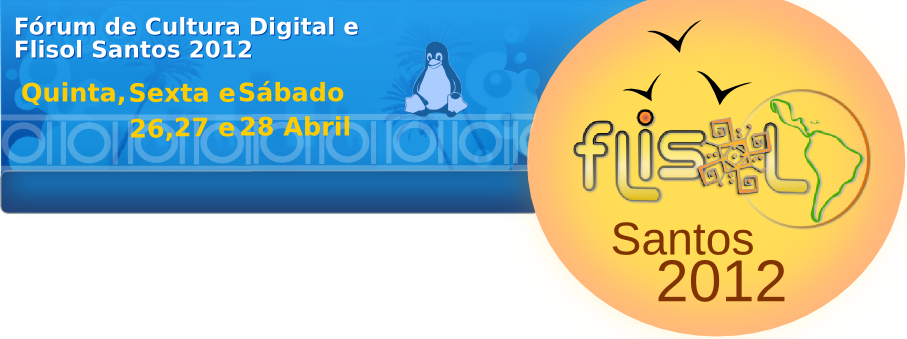
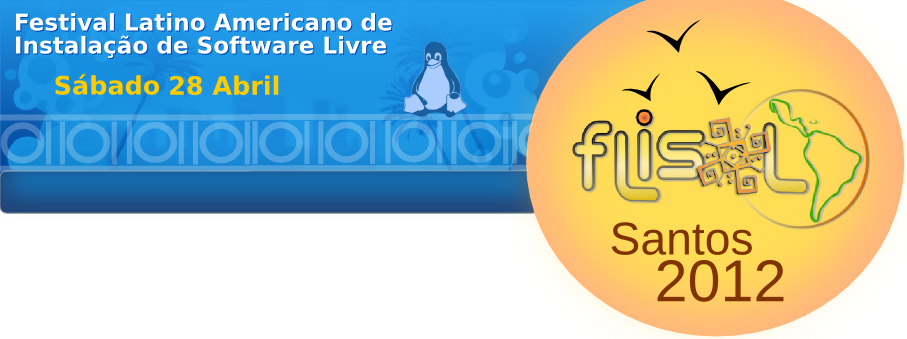
Atualização do site, páginas, inscrições, etc.

diff --git a/paginas/data_hora.php b/paginas/data_hora.php
@@ -1,11 +1,13 @@
 <h1>Quando?</h1>
 
 <p>
-    O Flisol Santos 2012 ainda não tem data marcada. Volte em breve para saber mais.
+    O Flisol Santos 2012 será realizado no dia 28/05, sábado, das 9h00 às 18h00.
 </p>
 
 <h1>Onde?</h1>
 
 <p>
-    Logo será definido o local do evento.
+    O evento será realizado no Fórum da Cidadania, que fica na Avenida Ana Costa, 340 - Santos - SP.
 </p>
+
+<iframe width="550" height="350" frameborder="0" scrolling="no" marginheight="0" marginwidth="0" src="http://maps.google.com.br/maps?f=q&amp;source=s_q&amp;hl=pt-BR&amp;geocode=&amp;q=Avenida+Ana+Costa,+340+%E2%80%93+Santos+%E2%80%93+SP&amp;aq=&amp;sll=-23.958882,-46.331899&amp;sspn=0.005314,0.010568&amp;ie=UTF8&amp;hq=&amp;hnear=Av.+Dona+Ana+Costa,+340+-+Campo+Grande,+Santos+-+S%C3%A3o+Paulo,+11060-002&amp;ll=-23.958882,-46.331926&amp;spn=0.01055,0.021136&amp;t=m&amp;z=14&amp;output=embed"></iframe><br /><small><a href="http://maps.google.com.br/maps?f=q&amp;source=embed&amp;hl=pt-BR&amp;geocode=&amp;q=Avenida+Ana+Costa,+340+%E2%80%93+Santos+%E2%80%93+SP&amp;aq=&amp;sll=-23.958882,-46.331899&amp;sspn=0.005314,0.010568&amp;ie=UTF8&amp;hq=&amp;hnear=Av.+Dona+Ana+Costa,+340+-+Campo+Grande,+Santos+-+S%C3%A3o+Paulo,+11060-002&amp;ll=-23.958882,-46.331926&amp;spn=0.01055,0.021136&amp;t=m&amp;z=14" style="color:#0000FF;text-align:left">Exibir mapa ampliado</a></small>

diff --git a/paginas/inscreva-se.php b/paginas/inscreva-se.php
@@ -1,6 +1,8 @@
 <h1>Inscreva-se</h1>
 
-<p>Inscrições não abertas no momento</p>
+<p>Preencha o formulário abaixo para confirmar sua presença no Flisol.</p>
+
+<iframe src="https://docs.google.com/spreadsheet/embeddedform?formkey=dFI0YmJweFZ0UW5PMW53enVGSGxuUVE6MQ" width="540" height="723" frameborder="0" marginheight="0" marginwidth="0">Carregando...</iframe>
 
 <h1>Prepare-se</h1>
 <p>Se você quiser instalar software livre em seu computador ou notebook, basta levá-lo ao evento. Lá pessoas preparadas e experientes farão a instalação para você. Você também pode levar mídias (CDs, DVDs, pendrives, etc) para voltar para casa com diversos softwares livres de várias áreas.</p>

diff --git a/paginas/principal.php b/paginas/principal.php
@@ -14,4 +14,3 @@
 
 <h2>Venha para o Fórum de Cultura de Digital e Flisol 2012</h2>
 
-<iframe width="560" height="315" src="http://www.youtube.com/embed/es55BOcn9AU" frameborder="0" allowfullscreen></iframe>
